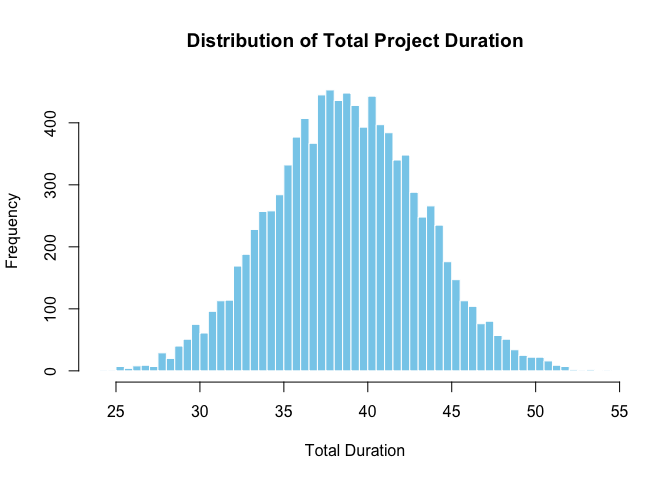
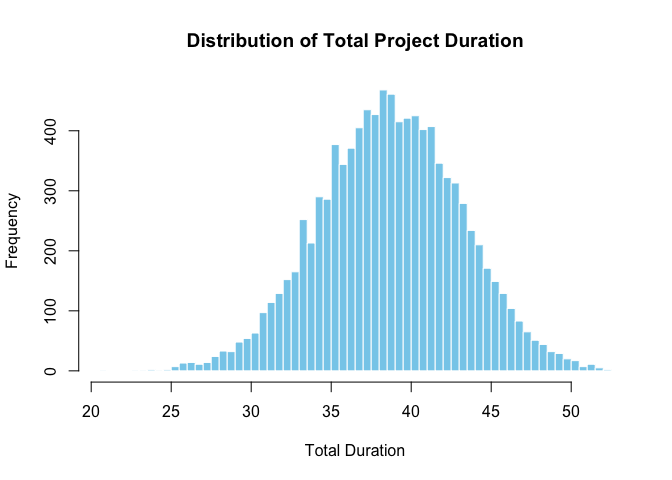
Update DSM

diff --git a/README.md b/README.md
@@ -40,8 +40,6 @@ simulation, sensitivity analysis, and earned value management.
   Curves](https://paulgovan.github.io/PRA/articles/sigmoidal.html)
 - [Bayesian
   Methods](https://paulgovan.github.io/PRA/articles/Bayes.html)
-- [Bayesian
-  Networks](https://paulgovan.github.io/PRA/articles/network.html)
 
 ## Installation
 
@@ -102,7 +100,7 @@ To calculate the mean of the total duration:
 cat("Mean Total Duration is ", round(results$total_mean, 2))
 ```
 
-Mean Total Duration is 38.72
+Mean Total Duration is 38.67
 
 To calculate the variance of the total duration:
 
@@ -110,7 +108,7 @@ To calculate the variance of the total duration:
 cat("Variance around the Total Duration is ", round(results$total_variance, 2))
 ```
 
-Variance around the Total Duration is 19.62
+Variance around the Total Duration is 19.47
 
 To build a histogram of the total duration:
 
